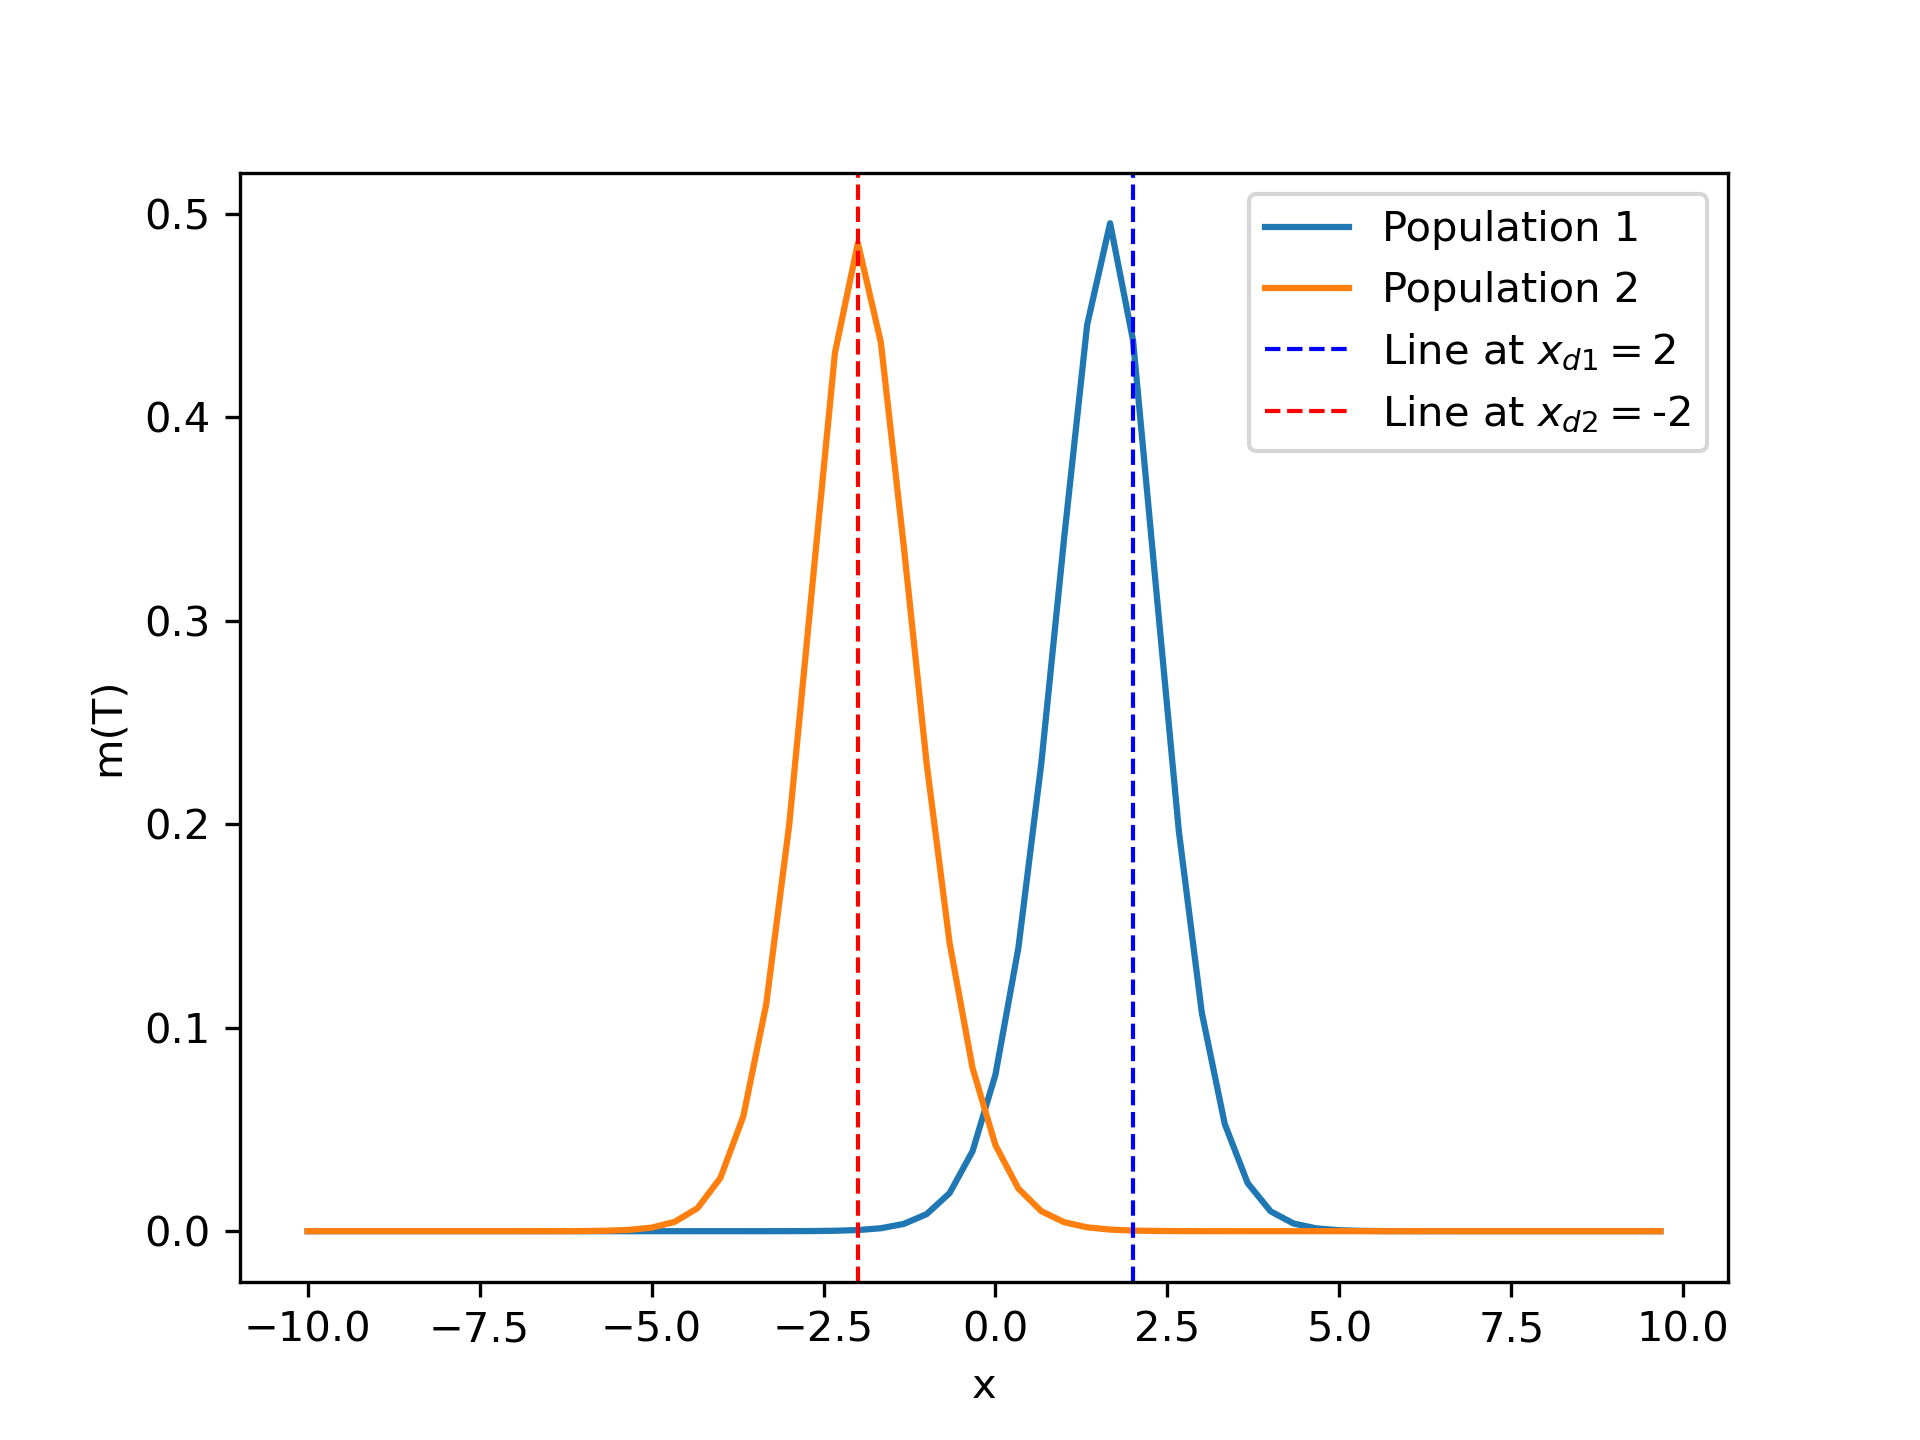
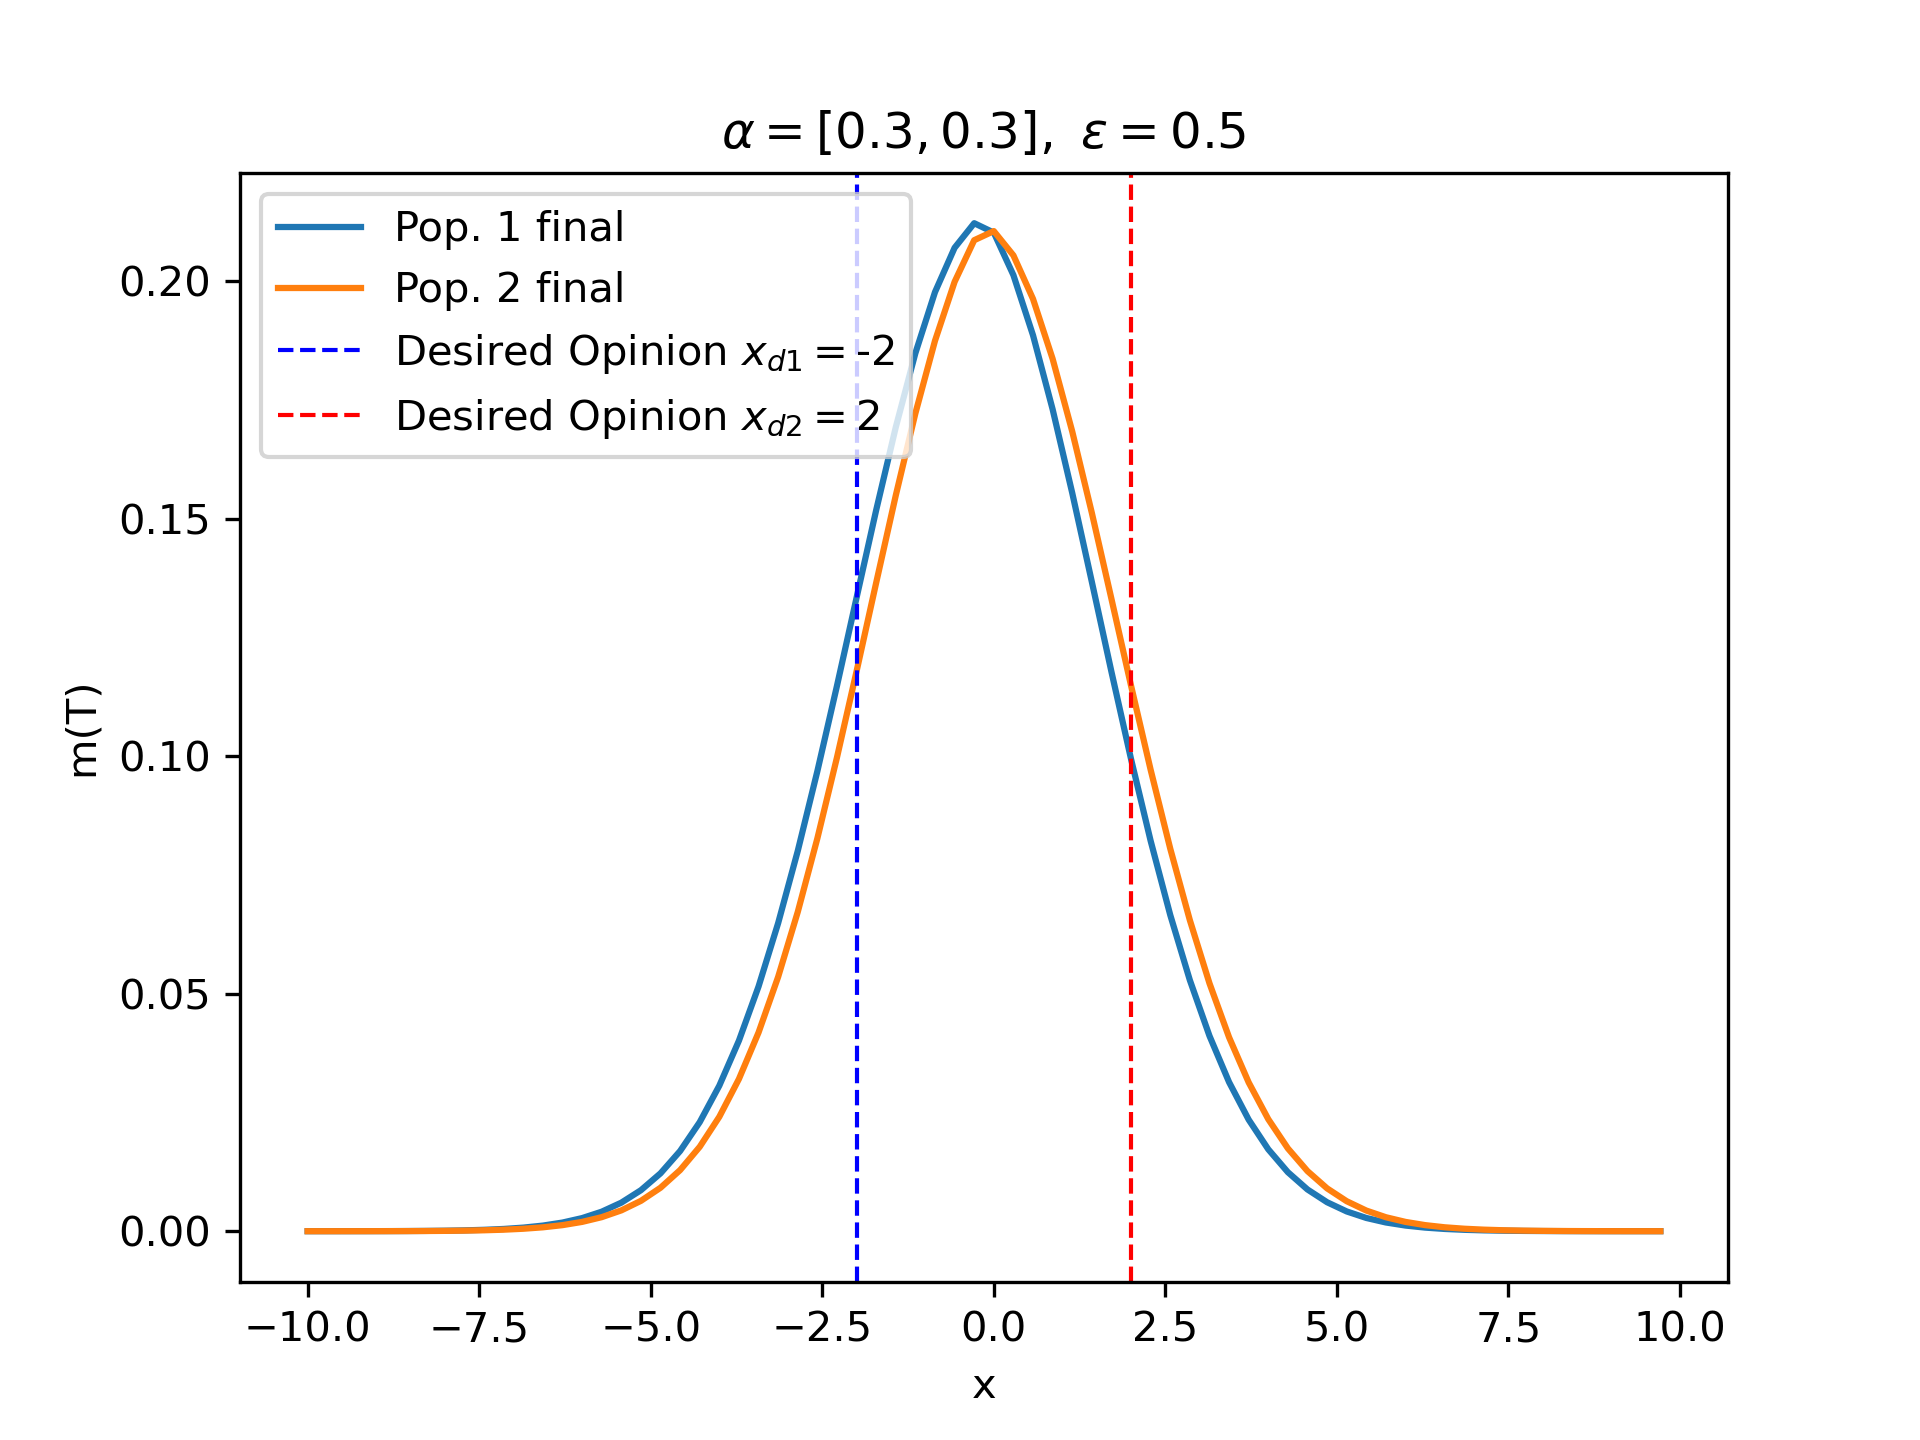
changes

diff --git a/experiments/two_populaional.py b/experiments/two_populaional.py
@@ -5,8 +5,8 @@ from jax import jacfwd, vmap
 from jax.scipy.stats import norm, truncnorm
 import munch
 import os
-x_d1 = 2
-x_d2 = -2
+x_d1 = -2
+x_d2 = 2
 os.environ["JAX_TRACEBACK_FILTERING"]="off"
 
 class TwoPopulationMFG(object):
@@ -29,12 +29,12 @@ class TwoPopulationMFG(object):
 
     def mu0(self, x, population_index): # uncomment the commented 3 lines in both if and else statements to have initial normal distribution
         if population_index == 0:
-            midpoint = 0
+            midpoint = -1
             sigma_mu = 1
 
             return truncnorm.pdf(x, a = -5, b=5, loc=midpoint, scale=sigma_mu)
         elif population_index == 1:
-            midpoint = 0
+            midpoint = 1
             sigma_mu = 2
 
             return truncnorm.pdf(x, a = -5, b=5, loc=midpoint, scale=sigma_mu)
@@ -59,7 +59,7 @@ class TwoPopulationMFG(object):
 
 
         distances = self.K_d(mu_k_t, mu_r_t, sigma_k)
-        # distances = 0
+        distances = 0
 
         integral_approx = jnp.sum(self.local_kernel(Xtk, y)*mu_r_t) * self.h
         denominator_terms.append(lambda_r  * integral_approx * distances)
@@ -80,7 +80,7 @@ class TwoPopulationMFG(object):
 
         M0 = self.mu0(self.x_grid, idx)  # Assuming mu0 returns an array of shape (N,)
         UT = vmap(self.uT, in_axes=(0, None))(self.x_grid, idx)
-        U = U.at[self.Nt, :].set(UT)
+        # U = U.at[self.Nt, :].set(UT)
         M = M.at[0, :].set(M0)
         return U, M
 
@@ -284,12 +284,12 @@ class TwoPopulationMFG(object):
 
 cfg = munch.munchify({
     'T' : 7,
-    'Nt': 50,
+    'Nt': 30,
     'xl': -10,
     'xr': 10,
-    'N' : 60,
-    'nu': 0.5,
-    'alphas': [0.01, 0.01],
+    'N' : 70,
+    'nu': 1,
+    'alphas': [0.3, 0.3],
     'sigmas': [1, 1],
     'lambdas': [0.5, 0.5],
     'eps': 0.5,
@@ -297,7 +297,7 @@ cfg = munch.munchify({
     'hjb_lr': 1,
     'epoch': 50,
     'lr': 0.8,
-    'tol': 10 ** (-6),
+    'tol': 10 ** (-5),
 })
 
 
@@ -327,13 +327,14 @@ plt.show()
 
 # Final distribution for both populations with updated legends
 plt.figure()
-plt.plot(XX, M1[-1, :], label='Population 1')  # More descriptive name for M1(T)
-plt.plot(XX, M2[-1, :], label='Population 2')  # More descriptive name for M2(T)
-plt.axvline(x=x_d1, color='Blue', linestyle='--', linewidth=1, label=r'Line at $x_{d1}=$' + f'{x_d1}')  # LaTeX for subscript
-plt.axvline(x=x_d2, color='Red', linestyle='--', linewidth=1, label=r'Line at $x_{d2}=$' + f'{x_d2}')  # LaTeX for subscript
+plt.plot(XX, M1[-1, :], label='Pop. 1 final')  # More descriptive name for M1(T)
+plt.plot(XX, M2[-1, :], label='Pop. 2 final')  # More descriptive name for M2(T)
+plt.axvline(x=x_d1, color='Blue', linestyle='--', linewidth=1, label=r'Desired Opinion $x_{d1}=$' + f'{x_d1}')  # LaTeX for subscript
+plt.axvline(x=x_d2, color='Red', linestyle='--', linewidth=1, label=r'Desired Opinion $x_{d2}=$' + f'{x_d2}')  # LaTeX for subscript
 plt.xlabel('x')
 plt.ylabel('m(T)')
-plt.legend(loc='upper right')  # Display the legend with subscript notation
+plt.title(r"$\alpha=" +f"{cfg.alphas}" +r",\ \varepsilon=" +f"{cfg.eps}$")
+plt.legend(loc='upper left')  # Display the legend with subscript notation
 plt.savefig('Final_Distribution.png', format='png', dpi=300)
 plt.show()
 

diff --git a/experiments/one_populational.py b/experiments/one_populational.py
@@ -202,7 +202,7 @@ class OnePopulationalMFG(object):
         M0 = vmap(self.m0)(self.X)
         UT = vmap(self.uT)(self.X)
 
-        U = U.at[self.Nt, :].set(UT)
+        # U = U.at[self.Nt, :].set(UT)
         M = M.at[0, :].set(M0)
         return U, M
 
@@ -263,14 +263,14 @@ class OnePopulationalMFG(object):
         return U, M
 
 cfg = munch.munchify({
-    'T' : 6,
+    'T' : 7,
     'Nt': 70,
     'xl': -10,
     'xr': 10,
     'N' : 60,
     'nu': 0.5,
-    'alpha': 0.3,
-    'eps': 1,
+    'alpha': 0.01,
+    'eps': 0.5,
     'hjb_epoch': 100,
     'hjb_lr': 1,
     'epoch': 100,
@@ -280,7 +280,7 @@ cfg = munch.munchify({
 
 dt = cfg.T / cfg.Nt
 dx = (cfg.xr-cfg.xl)/cfg.N
-if  (2* cfg.nu * dt)< dx**2:
+if  (2* cfg.nu * dt)<= dx**2:
     solver = OnePopulationalMFG(cfg.T, cfg.Nt, cfg.xl, cfg.xr, cfg.N, cfg.nu, cfg.alpha, cfg.eps)
 
     TT = jnp.linspace(0, cfg.T, cfg.Nt + 1)
@@ -310,7 +310,7 @@ if  (2* cfg.nu * dt)< dx**2:
 
     plt.xlabel(r"$x$")
     plt.ylabel(r"$m(T)$")
-    plt.title(r"$\alpha=" +f"{cfg.alpha}" +r"\varepsilon=$" +f"{cfg.eps}$")
+    plt.title(r"$\alpha=" +f"{cfg.alpha}" +r",\ \varepsilon=" +f"{cfg.eps}$")
     plt.savefig("one_populational.png", dpi=300)
     plt.legend()
     # plt.legend(handles=param_legend, loc='upper left')
